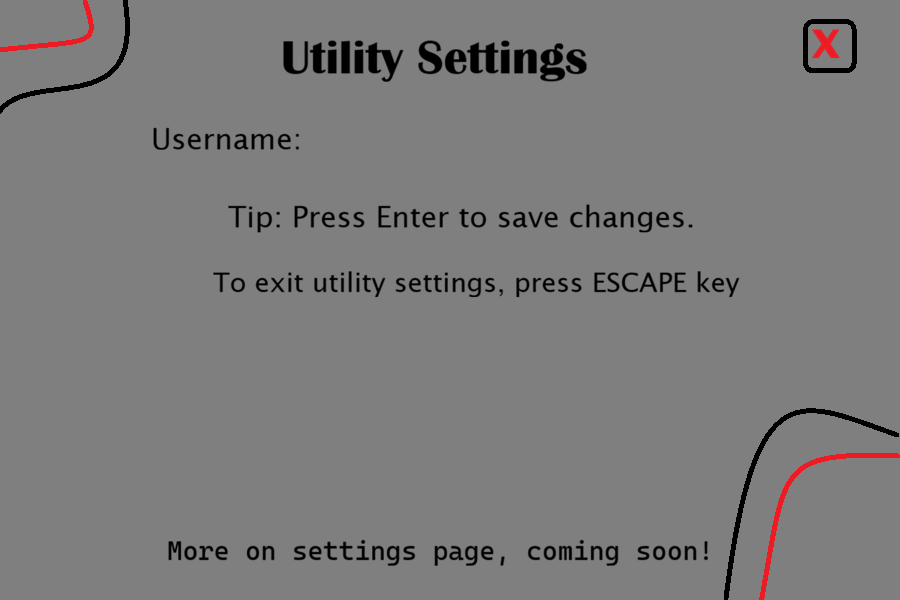
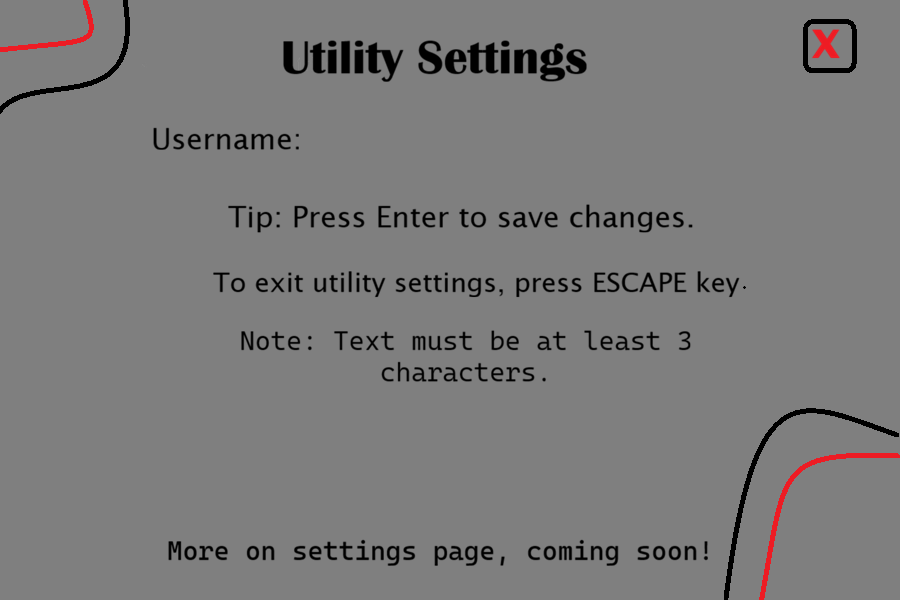
Remove enter key(return-carriage(\r)) from text_input and add limit of at least 3 chars for username

Changed region(s): [[0.3733, 0.54, 0.6222, 0.66], [0.6533, 0.54, 0.7778, 0.6], [0.2489, 0.54, 0.3422, 0.6]]

diff --git a/main.py b/main.py
@@ -253,9 +253,12 @@ def settings_page():
             elif event.type == pygame.KEYDOWN:
                 if event.key == pygame.K_RETURN:
                     # Save new username
-                    save_data(data=text_input, file_name="user_info.txt")
-                    user_name = text_input
-                    load_text("Username saved successfully", x=20, y=570, color=green)
+                    if len(text_input) > 2:
+                        save_data(data=text_input, file_name="user_info.txt")
+                        user_name = text_input
+                        load_text("Username saved successfully", x=20, y=570, color=green)
+                    else:
+                        text_input = user_name
                 if event.key == pygame.K_BACKSPACE:
                     if text_input:
                         text_input=text_input[:-1]
@@ -271,7 +274,9 @@ def settings_page():
                         print('successful')
                     if m_p[0] > 810 and m_p[0] < 850 and m_p[1] > 27 and m_p[1] < 64:
                         pygame.mixer.music.stop()
+
                         menuscreen()
+        text_input = text_input.strip("\r")
 
         pygame.display.update()
     clock.tick(30)